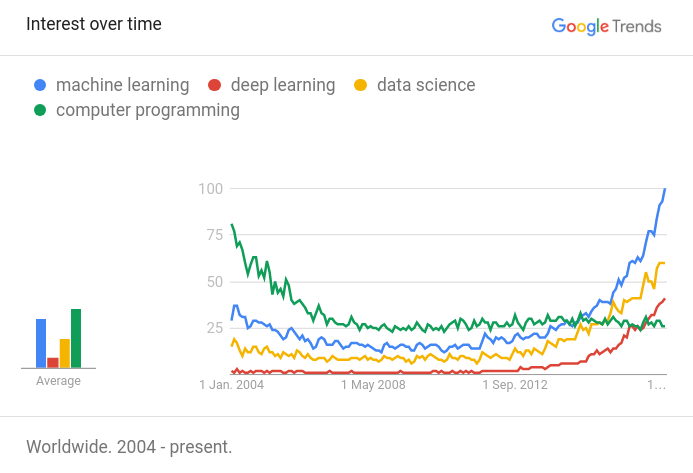
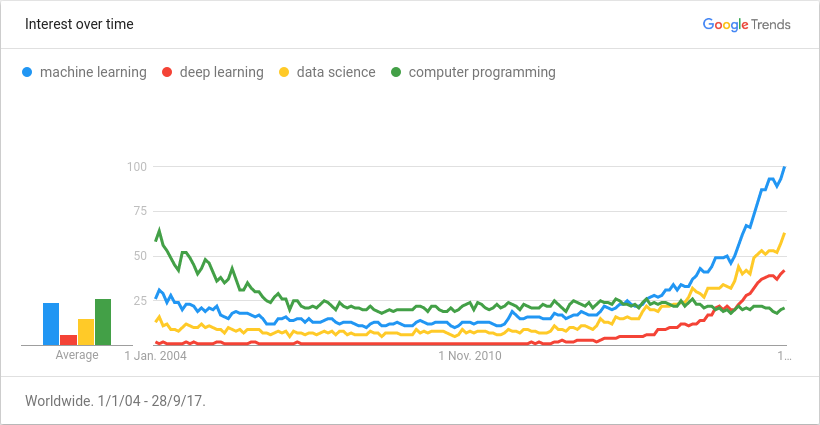
Updated Google Trends

diff --git a/README.md b/README.md
@@ -27,9 +27,9 @@ I ([Guillaume Chevalier](https://github.com/guillaume-chevalier)) have built thi
 
 ## Trends
 
-Here are the all-time [Google Trends](https://www.google.ca/trends/explore?date=all&q=machine%20learning,deep%20learning,data%20science,computer%20programming), from 2004 up to now, April 2017:
+Here are the all-time [Google Trends](https://www.google.ca/trends/explore?date=all&q=machine%20learning,deep%20learning,data%20science,computer%20programming), from 2004 up to now, September 2017:
 <p align="center">
-  <img src="google_trends.png" width="578" height="394" />
+  <img src="google_trends.png" />
 </p>
 
 You might also want to look at Andrej Karpathy's [new post](https://medium.com/@karpathy/a-peek-at-trends-in-machine-learning-ab8a1085a106) about trends in Machine Learning research.
